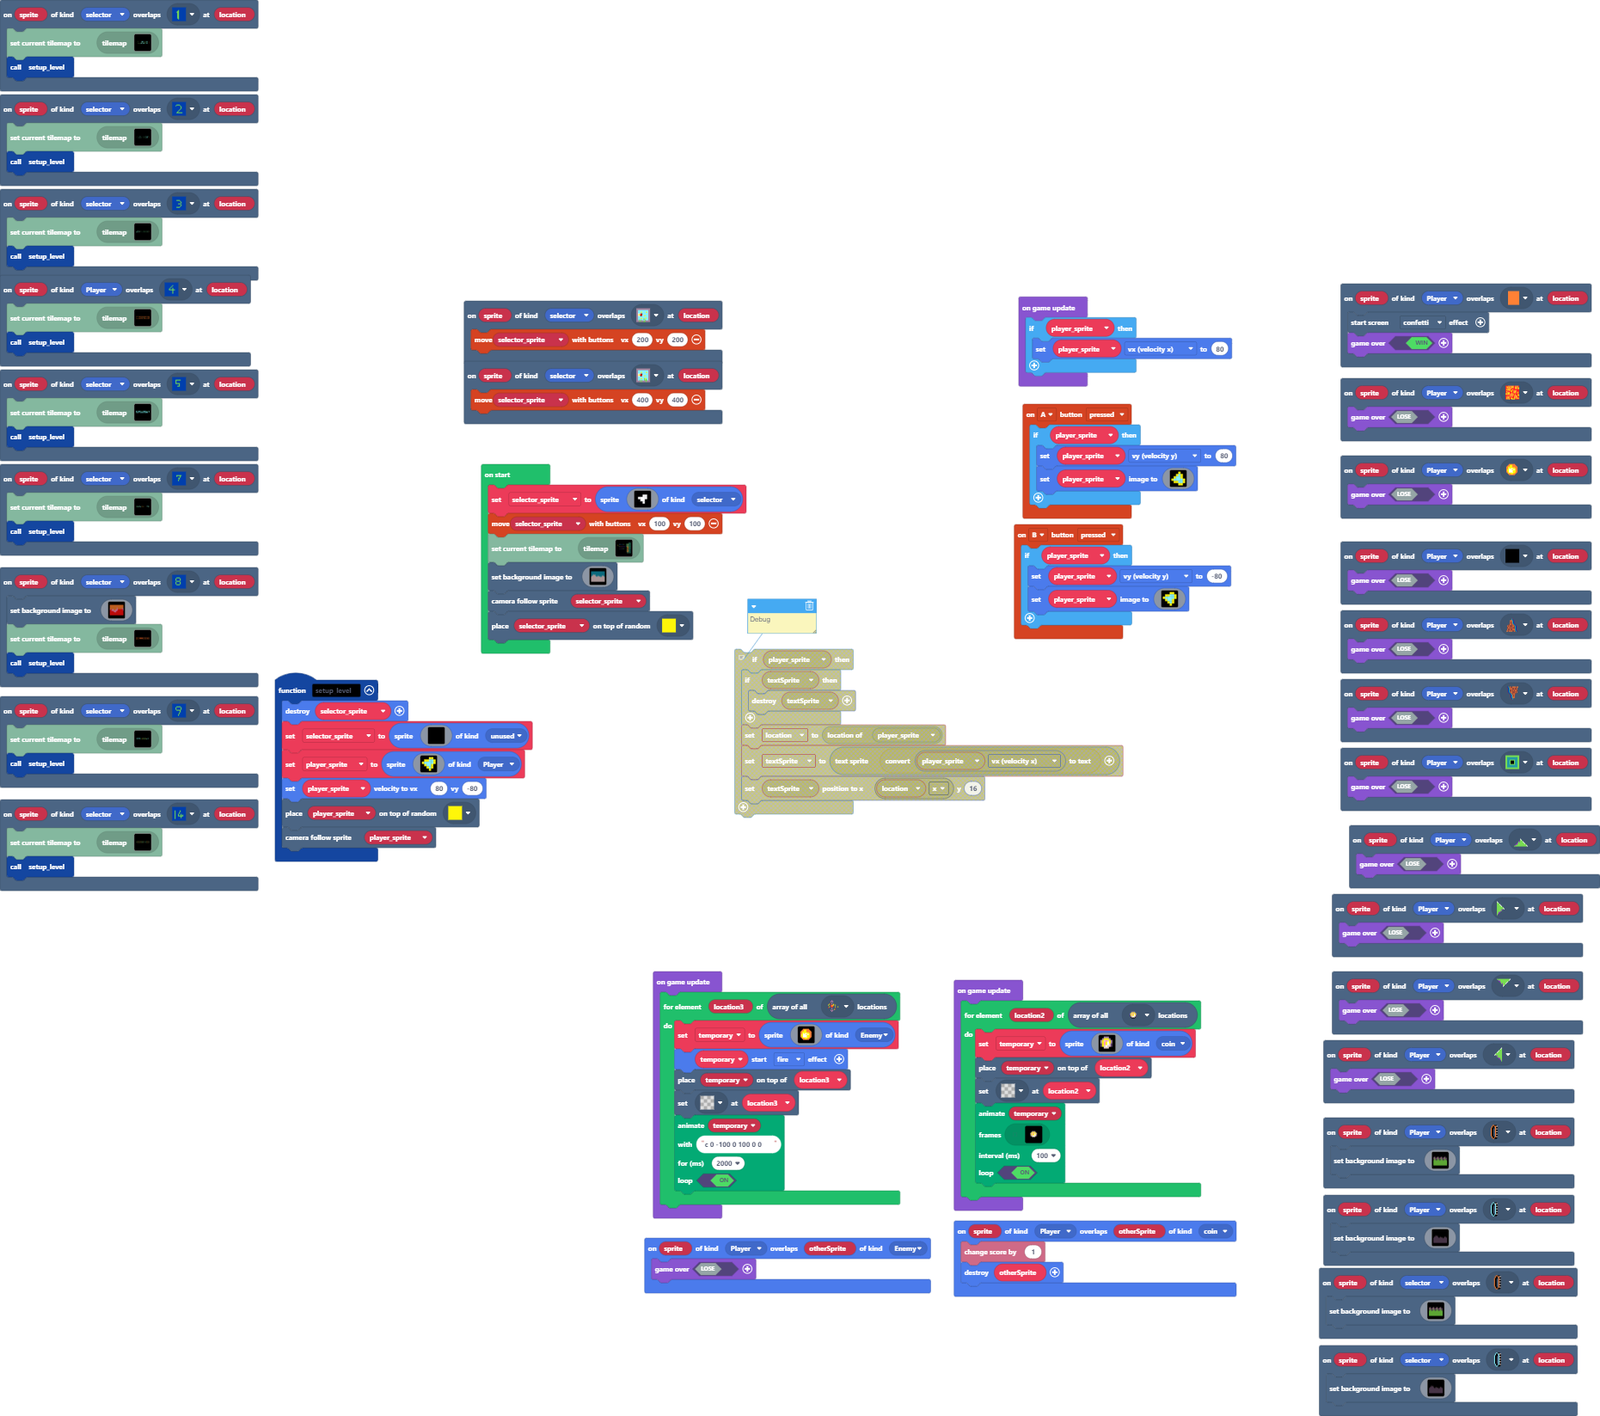
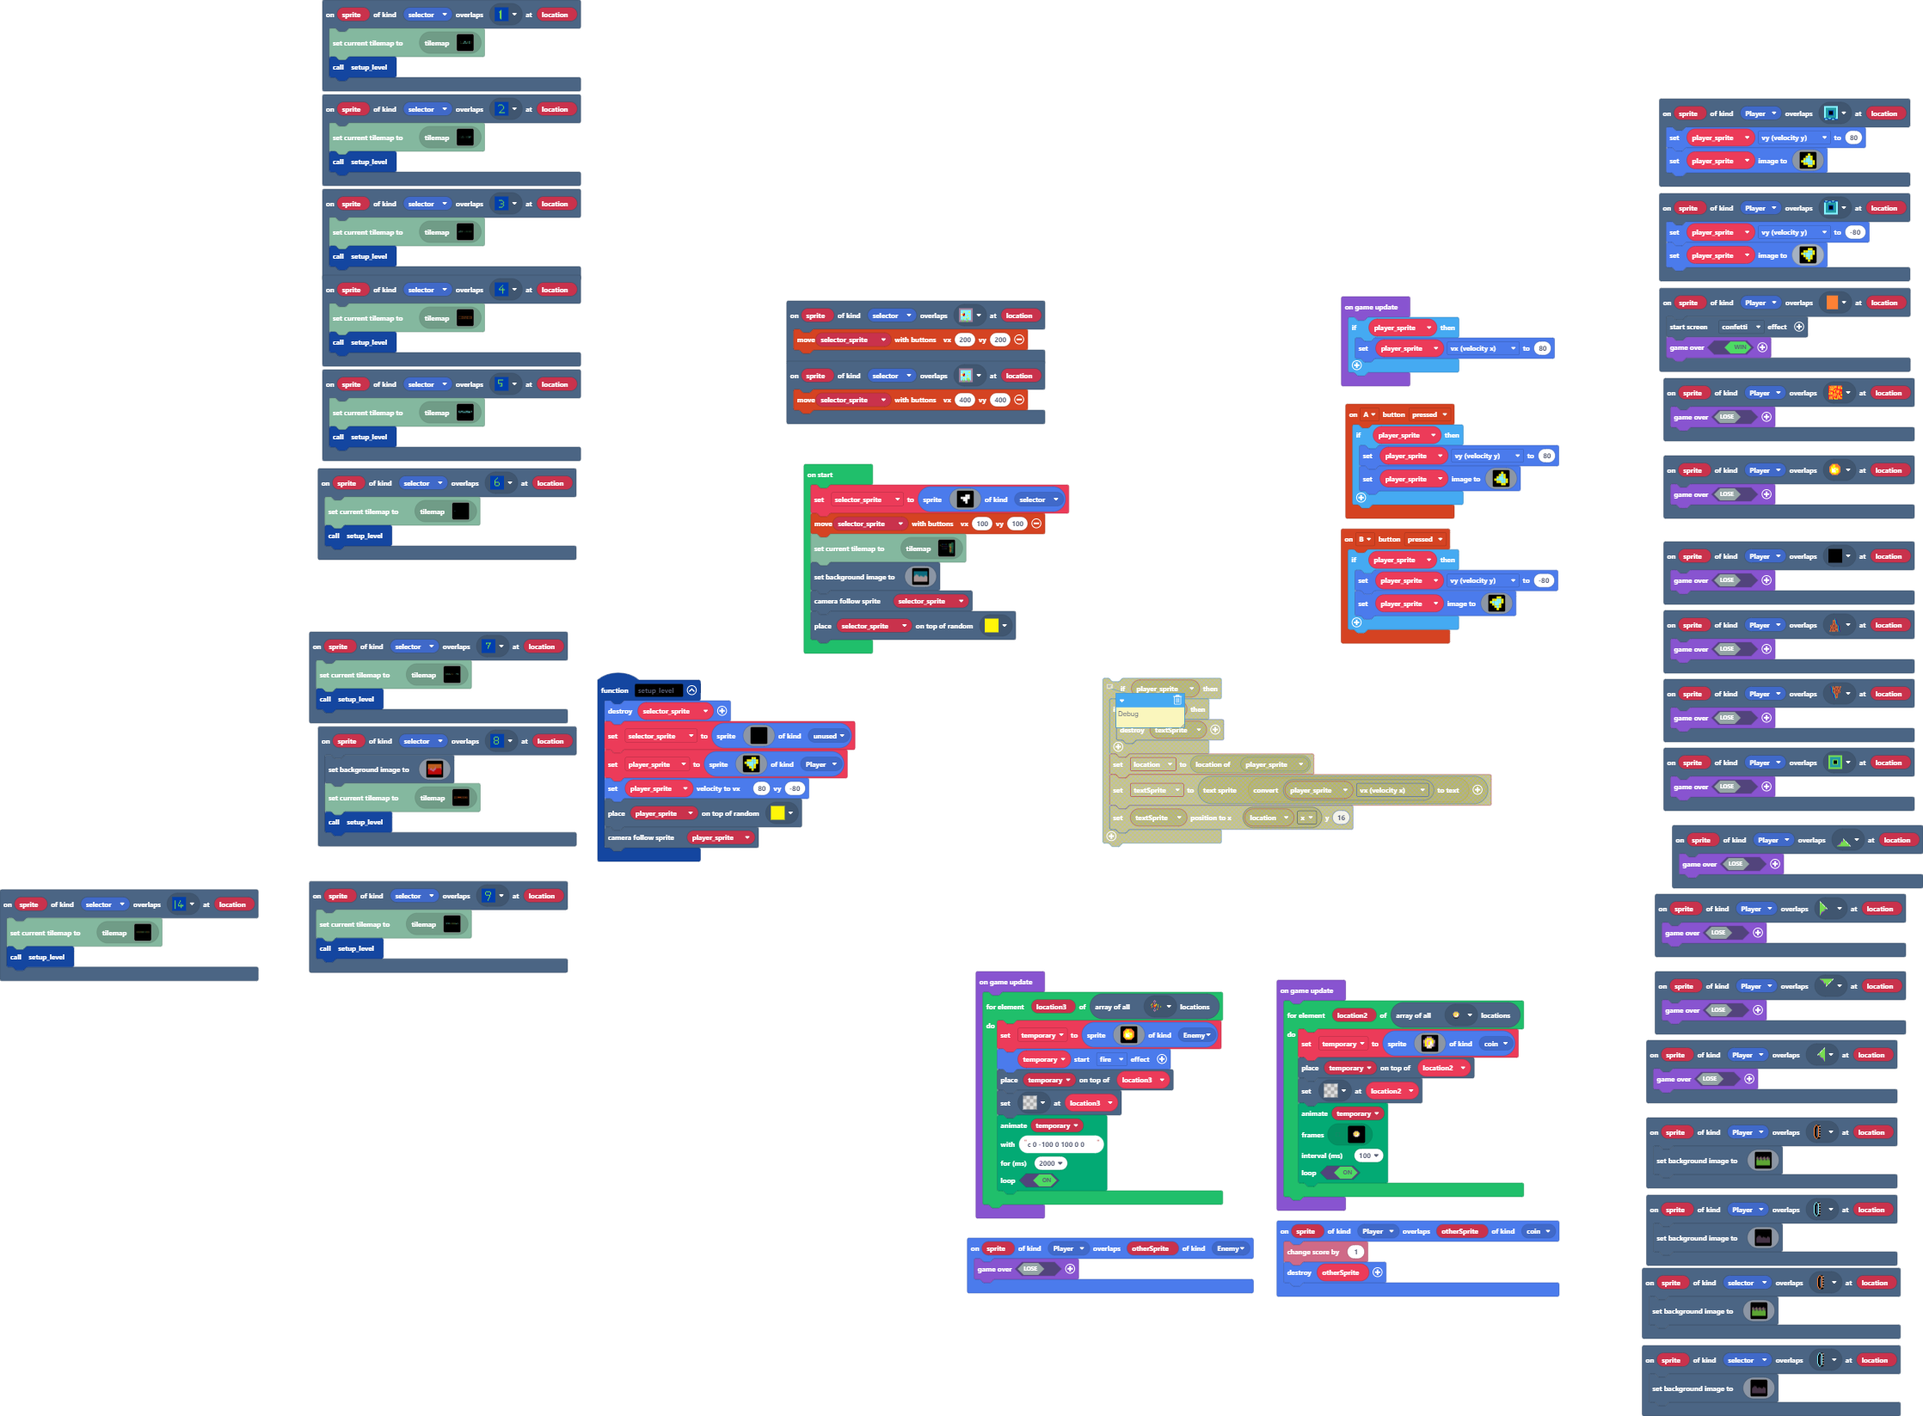
started work on level 7 & made "bouncers".

diff --git a/tilemap.g.ts b/tilemap.g.ts
@@ -110,6 +110,10 @@ namespace myTiles {
     export const tile53 = image.ofBuffer(hex``);
     //% fixedInstance jres blockIdentity=images._tile
     export const tile54 = image.ofBuffer(hex``);
+    //% fixedInstance jres blockIdentity=images._tile
+    export const tile55 = image.ofBuffer(hex``);
+    //% fixedInstance jres blockIdentity=images._tile
+    export const tile56 = image.ofBuffer(hex``);
 
     helpers._registerFactory("tilemap", function(name: string) {
         switch(helpers.stringTrim(name)) {
@@ -331,25 +335,6 @@ namespace myTiles {
 ....................................................................................................
 ....................................................................................................
 `, [myTiles.transparency16,myTiles.tile48,myTiles.tile2,myTiles.tile3,myTiles.tile7,myTiles.tile8,myTiles.tile11,myTiles.tile14,myTiles.tile49], TileScale.Sixteen);
-            case "level14":
[1 lines of base64/hex data omitted]
-................................................................................................................................................................
-................................................................................................................................................................
-................................................................................................................................................................
-................................................................................................................................................................
-................................................................................................................................................................
-................................................................................................................................................................
-................................................................................................................................................................
-................................................................................................................................................................
-................................................................................................................................................................
-................................................................................................................................................................
-................................................................................................................................................................
-................................................................................................................................................................
-................................................................................................................................................................
-................................................................................................................................................................
-................................................................................................................................................................
-................................................................................................................................................................
-`, [myTiles.transparency16,myTiles.tile2,myTiles.tile7,myTiles.tile8,myTiles.tile13,myTiles.tile14,myTiles.tile3,myTiles.tile6,myTiles.tile11,myTiles.tile12,myTiles.tile50,myTiles.tile51,myTiles.tile52], TileScale.Sixteen);
             case "level17":
             case "level17":return tiles.createTilemap(hex`1000100000000000000000000000000000000000000000000000000000000000000000000000000000000000000000000000000000000000000000000000000000000000000000000000000000000000000000000000000000000000000000000000000000000000000000000000000000000000000000000000000000000000000000000000000000000000000000000000000000000000000000000000000000000000000000000000000000000000000000000000000000000000000000000000000000000000000000000000000000000000000000000000000000000000000000000000000000000000000000000000000000000000000000000000000000000000`, img`
 . . . . . . . . . . . . . . . . 
@@ -662,7 +647,7 @@ namespace myTiles {
 . . . . . . . . . . . . . . . . 
 `, [myTiles.transparency16], TileScale.Sixteen);
             case "level18":
[2 lines of base64/hex data omitted]
 ......................................................................................................................................................
 ......................................................................................................................................................
 ......................................................................................................................................................
@@ -680,6 +665,63 @@ namespace myTiles {
 ......................................................................................................................................................
 ......................................................................................................................................................
 `, [myTiles.transparency16,myTiles.tile8,myTiles.tile48,myTiles.tile53,myTiles.tile44,myTiles.tile49,myTiles.tile3,myTiles.tile54,myTiles.tile7,myTiles.tile11,myTiles.tile14], TileScale.Sixteen);
+            case "level14":
[1 lines of base64/hex data omitted]
+................................................................................................................................................................
+................................................................................................................................................................
+................................................................................................................................................................
+................................................................................................................................................................
+................................................................................................................................................................
+................................................................................................................................................................
+................................................................................................................................................................
+................................................................................................................................................................
+................................................................................................................................................................
+................................................................................................................................................................
+................................................................................................................................................................
+................................................................................................................................................................
+................................................................................................................................................................
+................................................................................................................................................................
+................................................................................................................................................................
+................................................................................................................................................................
+`, [myTiles.transparency16,myTiles.tile2,myTiles.tile7,myTiles.tile8,myTiles.tile13,myTiles.tile14,myTiles.tile3,myTiles.tile6,myTiles.tile11,myTiles.tile12], TileScale.Sixteen);
+            case "level31":
+            case "level31":return tiles.createTilemap(hex`1000100000000000000000000000000000000000000000000000000000000000000000000000000000000000000000000000000000000000000000000000000000000000000000000000000000000000000000000000000000000000000000000000000000000000000000000000000000000000000000000000000000000000000000000000000000000000000000000000000000000000000000000000000000000000000000000000000000000000000000000000000000000000000000000000000000000000000000000000000000000000000000000000000000000000000000000000000000000000000000000000000000000000000000000000000000000000`, img`
+. . . . . . . . . . . . . . . . 
+. . . . . . . . . . . . . . . . 
+. . . . . . . . . . . . . . . . 
+. . . . . . . . . . . . . . . . 
+. . . . . . . . . . . . . . . . 
+. . . . . . . . . . . . . . . . 
+. . . . . . . . . . . . . . . . 
+. . . . . . . . . . . . . . . . 
+. . . . . . . . . . . . . . . . 
+. . . . . . . . . . . . . . . . 
+. . . . . . . . . . . . . . . . 
+. . . . . . . . . . . . . . . . 
+. . . . . . . . . . . . . . . . 
+. . . . . . . . . . . . . . . . 
+. . . . . . . . . . . . . . . . 
+. . . . . . . . . . . . . . . . 
+`, [myTiles.transparency16], TileScale.Sixteen);
+            case "level32":
+            case "level32":return tiles.createTilemap(hex`87001000000000000000000000000000000000000000000000000000000000000000000000000000000000000000000000000000000000000000000000000000000000000000000000000000000000000000000000000000000000000000000000000000000000000000000000000000000000000000000000000000000000000000000000000000000000000000000000000000000000000000000000000000000000000000000000000000000000000000000000000000000000000000000000000000000000000000000000000000000000000000000000000000000000000000000000000000000000000000000000000000000000000000000000000000000000000000000000000000000000000000000000000000000000000000000000000000000000000000000000000000000000000000000000000000000000000000000000000000000000000000000000000000000000000000000000000000000000000000000000000000000000000000000000000000000000000000000000000000000000000000000000000000000000000000000000000000000000000000000000000000000000000000000000000000000000000000000000000000000000000000000000000000000000000000000000000000000000000000000000000000000000000000000000000000000000000000000000000000000000000000000000000000000000000000000000000000000000000000000000000000000000000000000000000000000000000000000000000000000000000000000000000000000000000000000000000000000000000000000000000000000000000000000000000000000000000000000000000000000000000000000000000000000000000000000000000000000000000000000000000000000000000000000000000000000000000000000000000000000000000000000000000000000000000000000000000000000000000000000000000000000000000000000000000000000000000000000000000000000000000000000000000000000000000000000000000000000000000000000000000000000000000000000000000000000000000000000000000000000000000000020202020202020202020202020202020000000000000000000000000000000000000000000000000000000000000000000000000000000000000000000000000000000000000000000000000000000000000000000000000000000000000000000000000000000000000000000000000000000000000000000000000000000000000000000000010000000000000000000000000000000000000000000000000000000000000000000000000000000000000000000000000000000000000000000000000000000000000000000000000000000000000000000000000000000000000000000000000000000000000000000000000000000000000000000000000000000000000000000000000000010000000000000000000000000000000000000000000000000000000000000000000000000000000000000000000000000000000000000000000000000000000000000000000000000000000000000000000000000000000000000000000000000000000000000000000000000000000000000000000000000000000000000000000000000000030303030303030303030303030303030000000000000000000000000000000000000000000000000000000000000000000000000000000000000000000000000000000000000000000000000000000000000000000000000000000000000000000000000000000000000000000000000000000000000000000000000000000000000000000000000000000000000000000000000000000000000000000000000000000000000000000000000000000000000000000000000000000000000000000000000000000000000000000000000000000000000000000000000000000000000000000000000000000000000000000000000000000000000000000000000000000000000000000000000000000000000000000000000000000000000000000000000000000000000000000000000000000000000000000000000000000000000000000000000000000000000000000000000000000000000000000000000000000000000000000000000000000000000000000000000000000000000000000000000000000000000000000000000000000000000000000000000000000000000000000000000000000000000000000000000000000000000000000000000000000000000000000000000000000000000000000000000000000000000000000000000000000000000000000000000000000000000000000000000000000000000000000000000000000000000000000000000000000000000000000000000000000000000000000000000000000000000000000000000000000000000000000000000000000000000000000000000000000000000000000000000000000000000000000000000000000000000000000000000000000000000000000000000000000000000000000000000000000000000000000000000000000000000000000000000000000000000000000000000000000000000000000000000000000000000000000000000000000000000000000000000000000000000000000000000000000000000000000000000000000000000000000000000000000000000000000000000000000000000000000000000000000000000000000000000000000000000000000000000000000000000000000000000000000000000000000000000000000000000000000000000000000000000000000000000000000000000000000000000000000000000000000000000000000000000000000000000000000000000000000000000000000000000000000000000000000000000000000000000000000000000000000000000000000000`, img`
+.......................................................................................................................................
+.......................................................................................................................................
+.......................................................................................................................................
+.......................................................................................................................................
+.......................................................................................................................................
+.......................................................................................................................................
+.......................................................................................................................................
+.......................................................................................................................................
+.......................................................................................................................................
+.......................................................................................................................................
+.......................................................................................................................................
+.......................................................................................................................................
+.......................................................................................................................................
+.......................................................................................................................................
+.......................................................................................................................................
+.......................................................................................................................................
+`, [myTiles.transparency16,myTiles.tile8,myTiles.tile55,myTiles.tile56], TileScale.Sixteen);
         }
         return null;
     })
@@ -795,6 +837,10 @@ namespace myTiles {
             case "tile53":return tile53;
             case "myTile52":
             case "tile54":return tile54;
+            case "myTile53":
+            case "tile55":return tile55;
+            case "myTile54":
+            case "tile56":return tile56;
         }
         return null;
     })

diff --git a/main.ts b/main.ts
@@ -439,9 +439,16 @@ scene.onOverlapTile(SpriteKind.selector, assets.tile`myTile11`, function (sprite
         7777777777777777777777777777777777777777777777777777777777777777777777777777777777777777777777777777777777777777777777777777777777777777777777777777777777777777
         `)
 })
-scene.onOverlapTile(SpriteKind.Player, assets.tile`myTile29`, function (sprite, location) {
-    tiles.loadMap(tiles.createMap(tilemap`level16`))
-    setup_level()
+scene.onOverlapTile(SpriteKind.Player, assets.tile`myTile54`, function (sprite, location) {
+    player_sprite.vy = -80
+    player_sprite.setImage(img`
+        . . . 5 5 . 
+        . 5 5 9 9 5 
+        5 9 9 9 9 5 
+        . 5 9 9 5 . 
+        . . 5 9 5 . 
+        . . . 5 . . 
+        `)
 })
 scene.onOverlapTile(SpriteKind.selector, assets.tile`myTile36`, function (sprite, location) {
     tiles.loadMap(tiles.createMap(tilemap`level14`))
@@ -495,6 +502,10 @@ function setup_level () {
 }
 scene.onOverlapTile(SpriteKind.selector, assets.tile`myTile45`, function (sprite, location) {
     controller.moveSprite(selector_sprite, 400, 400)
+})
+scene.onOverlapTile(SpriteKind.selector, assets.tile`myTile29`, function (sprite, location) {
+    tiles.loadMap(tiles.createMap(tilemap`level16`))
+    setup_level()
 })
 scene.onOverlapTile(SpriteKind.Player, assets.tile`myTile10`, function (sprite, location) {
     scene.setBackgroundImage(img`
@@ -620,9 +631,24 @@ scene.onOverlapTile(SpriteKind.Player, assets.tile`myTile10`, function (sprite, 
         cccccccccccccccccccccccccccccccccccccccccccccccccccccccccccccccccccccccccccccccccccccccccccccccccccccccccccccccccccccccccccccccccccccccccccccccccccccccccccccccc
         `)
 })
+scene.onOverlapTile(SpriteKind.selector, assets.tile`myTile19`, function (sprite, location) {
+    tiles.loadMap(tiles.createMap(tilemap`level32`))
+    setup_level()
+})
 scene.onOverlapTile(SpriteKind.selector, assets.tile`myTile20`, function (sprite, location) {
     tiles.loadMap(tiles.createMap(tilemap`level3`))
     setup_level()
+})
+scene.onOverlapTile(SpriteKind.Player, assets.tile`myTile53`, function (sprite, location) {
+    player_sprite.vy = 80
+    player_sprite.setImage(img`
+        . . . 5 . . 
+        . . 5 9 5 . 
+        . 5 9 9 5 . 
+        5 9 9 9 9 5 
+        . 5 5 9 9 5 
+        . . . 5 5 . 
+        `)
 })
 scene.onOverlapTile(SpriteKind.selector, assets.tile`myTile27`, function (sprite, location) {
     tiles.loadMap(tiles.createMap(tilemap`level5`))
